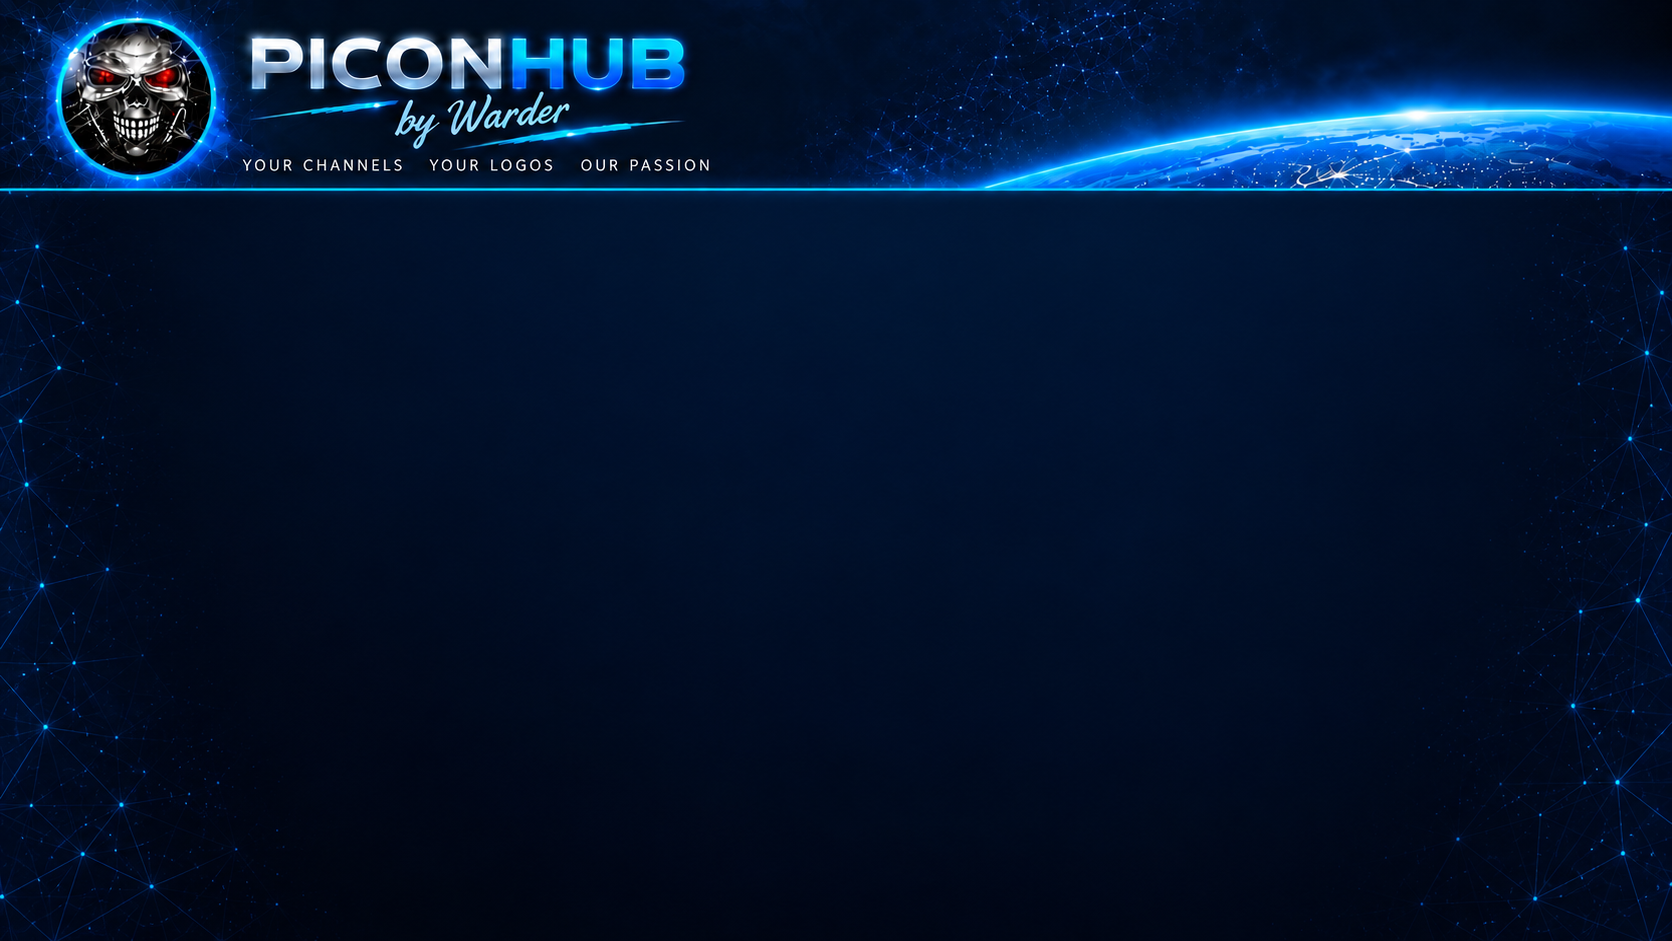
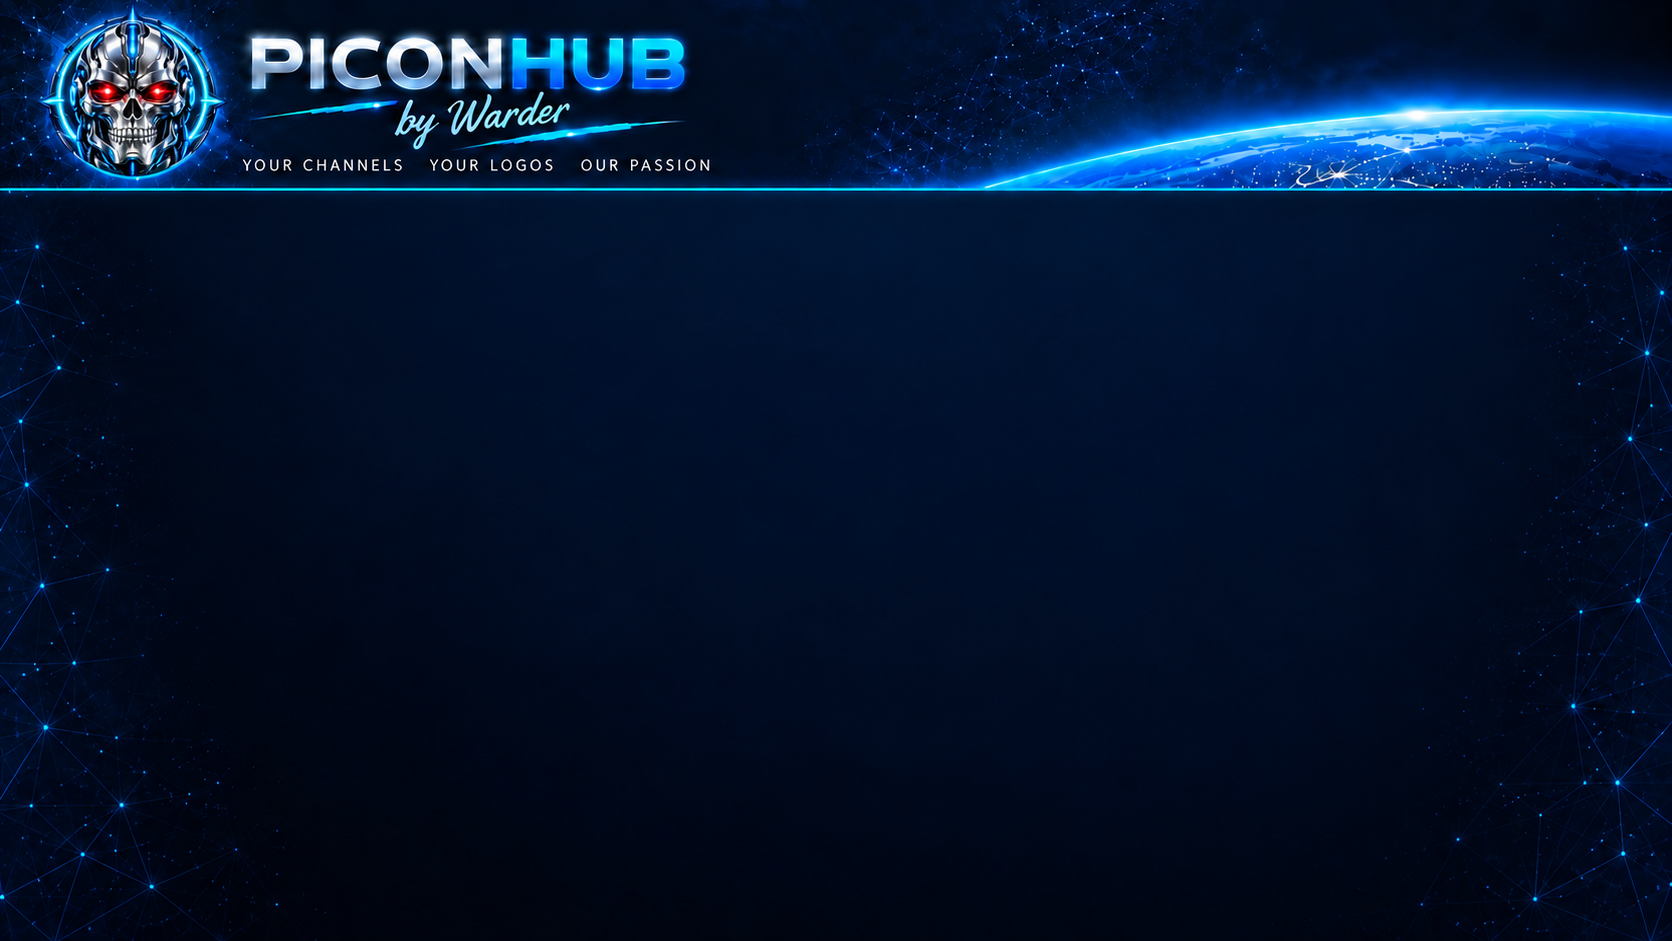
Release 0.1.10: reset choices after successful downloads and use approved chrome header skull

diff --git a/plugin/tests/test_native_ui.py b/plugin/tests/test_native_ui.py
@@ -284,6 +284,51 @@ class NativeControllerTests(unittest.TestCase):
         self.assertTrue(job.done);self.assertFalse(job.timer.running)
         job.cleanup()
 
+    def test_successful_job_returns_to_empty_first_row_and_default_preview(self):
+        self.complete_selection()
+        self.main['list'].moveToIndex(4)
+        stored=(self.main.profile.sats.value,self.main.profile.resolution.value,
+                self.main.profile.background.value,self.main.profile.method.value)
+        self.main.update_picons()
+        callback,args,kwargs=self.calls[-1]
+        self.assertEqual(callback,self.main.picon_job_finished)
+        job=self.gui.PiconJobScreen(self.session,args[1])
+        job.events.put(('result',{'added':1,'changed':0,'removed':0}));job.poll()
+        self.assertEqual(sum(bool(v) for v in self.main.selection.values()),5)
+        job.finish();self.assertIs(job.result,True)
+        callback(job.result)
+        self.assertTrue(all(v is None for v in self.main.selection.values()))
+        self.assertEqual(self.main['list'].getSelectionIndex(),0)
+        self.assertTrue(all(row[0][2]=='Vyber si…' for row in self.main['list'].values))
+        self.assertIn('0 z 5',self.main['summary'].text)
+        self.assertFalse(self.main['preview'].visible)
+        self.assertTrue(self.main['brand_logo'].visible)
+        self.assertEqual(stored,(self.main.profile.sats.value,self.main.profile.resolution.value,
+                                self.main.profile.background.value,self.main.profile.method.value))
+
+    def test_failed_job_preserves_choices_for_retry(self):
+        self.complete_selection();before=dict(self.main.selection)
+        self.main['list'].moveToIndex(3)
+        self.main.update_picons();callback,args,kwargs=self.calls[-1]
+        job=self.gui.PiconJobScreen(self.session,args[1])
+        job.events.put(('error','injected failure'));job.poll();job.finish()
+        self.assertIs(job.result,False);callback(job.result)
+        self.assertEqual(self.main.selection,before)
+        self.assertEqual(self.main['list'].getSelectionIndex(),3)
+        self.main.picon_job_finished(None)
+        self.assertEqual(self.main.selection,before)
+
+    def test_replace_confirmation_starts_job_with_the_same_reset_callback(self):
+        self.complete_selection();self.main.choose('method','all')
+        self.main.update_picons()
+        confirm,args,kwargs=self.calls[-1]
+        self.assertEqual(args[0],self.gui.MessageBox)
+        calls=len(self.calls);confirm(False);self.assertEqual(len(self.calls),calls)
+        confirm(True)
+        callback,args,kwargs=self.calls[-1]
+        self.assertIs(args[0],self.gui.PiconJobScreen)
+        self.assertEqual(callback,self.main.picon_job_finished)
+
     def test_text_dialog_uses_red_to_return(self):
         dialog=self.gui.TextDialog(self.session,"O projekte","PiconHub")
         self.assertEqual(dialog["hint_red"].text,"Naspäť")

diff --git a/plugin/src/Plugins/Extensions/WarderPiconHub/warder_gui.py b/plugin/src/Plugins/Extensions/WarderPiconHub/warder_gui.py
@@ -173,6 +173,7 @@ class PiconJobScreen(Screen):
         self.skin=dialog_skin(width,height,8,kind="progress",title="Aktualizácia piconov")
         Screen.__init__(self,session)
         self.preferences,self.done,self.started,self.closed=preferences,False,False,False
+        self.success=False
         self.events,self.cancel=queue.Queue(),threading.Event()
         self.history,self.download_row,self.follow_progress=[],None,True
         self["title"]=Label(_("Aktualizácia piconov"))
@@ -235,6 +236,7 @@ class PiconJobScreen(Screen):
                 self.done=True
                 self["progress"].hide()
                 if item[0]=="result":
+                    self.success=True
                     self.history.append(_("Dokončené.\n\nPridané: %d\nZmenené: %d\nOdstránené: %d") % (item[1]["added"],item[1]["changed"],item[1]["removed"]))
                 else:self.history.append(_("Aktualizácia sa nedokončila.\n\n")+item[1])
                 self.timer.stop();self.follow_progress=True;changed=True
@@ -251,7 +253,7 @@ class PiconJobScreen(Screen):
         self.follow_progress=self["status"].isAtLastPage()
 
     def finish(self):
-        if self.done:self.close()
+        if self.done:self.close(self.success)
         else:
             self.cancel.set()
             self.history.append(_("Čakám na bezpečné ukončenie…"))
@@ -445,9 +447,18 @@ class WarderMainScreen(Screen):
         except ValueError as exc:
             self.session.open(MessageBox,str(exc),type=MessageBox.TYPE_ERROR);return
         if any(p["update_mode"]==model.sync.UPDATE_MODE_REPLACE_ALL for p in preferences):
-            self.session.openWithCallback(lambda yes:self.session.open(PiconJobScreen,preferences) if yes else None,MessageBox,
+            self.session.openWithCallback(lambda yes:self.start_picon_job(preferences) if yes else None,MessageBox,
                                          _("Úplné nahradenie odstráni staré kanálové picony vybraných pozícií. Pokračovať?"),type=MessageBox.TYPE_YESNO,default=False)
-        else:self.session.open(PiconJobScreen,preferences)
+        else:self.start_picon_job(preferences)
+
+    def start_picon_job(self,preferences):
+        self.session.openWithCallback(self.picon_job_finished,PiconJobScreen,preferences)
+
+    def picon_job_finished(self,success):
+        if success is True:
+            self.selection={key:None for key in self.selection}
+            self["list"].moveToIndex(0)
+            self.refresh()
 
     def check_plugin_update(self):
         self.warderUpdateCheck.request(manual=True)

diff --git a/plugin/BRANDING-0.1.10.md b/plugin/BRANDING-0.1.10.md
@@ -1,0 +1,14 @@
+# Header skull replacement — 0.1.10
+
+Approved by the user in this conversation. Produced with the built-in imagegen edit tool.
+
+Production asset: `plugin/src/Plugins/Extensions/WarderPiconHub/images/warder-background.png` (1672×941 PNG).
+The preview asset `images/warder-emblem.png` remains the reference identity. The header uses only its chrome skull and cyan ring, without the lower PICONHUB/by Warder lettering. The separate large header title and signature remain.
+
+Edit inputs: the existing full background (blob 6bc7c4e2ef1549b9feb05deb4cf20ceb4d6465f5) and the existing transparent preview emblem.
+
+Prompt:
+
+> Replace only the black skull emblem at the upper left of the existing background with the chrome silver skull and cyan circular spikes from the preview emblem. Omit all lower PICONHUB and by Warder lettering from the inserted emblem; complete the chin and circular bottom rim. Fit the existing header space. Preserve the full background aspect ratio, separate PICONHUB title, by Warder signature, slogan, cyan divider, Earth and navy network background. Output the production background asset, not a UI screenshot.
+
+The resulting image was visually inspected and approved before publication. The preview logo and plugin-browser icon are unchanged.

diff --git a/plugin/update/RELEASE-NOTES.md b/plugin/update/RELEASE-NOTES.md
@@ -1,3 +1,3 @@
-# PiconHub Warder Evolution 0.1.9
+# PiconHub Warder Evolution 0.1.10
 
-Sťahovanie a spracovanie všetkých družíc sa zobrazuje ako postupne pribúdajúce riadky v jednom okne. Percentá sa menia v aktuálnom riadku, história zostáva a dá sa posúvať šípkami. Existujúce odkazy na picony sa bezpečne nahradia obrázkami bez zmeny cieľových súborov; pri chybe sa obnovia pôvodné odkazy.
+Po úspešnom stiahnutí a návrate sa všetky voľby vrátia na Vyber si…, kurzor na prvý riadok a náhľad na úvodné logo. Pri chybe zostáva výber pripravený na opakovanie. Čiernu lebku vľavo hore nahrádza chrómová lebka z náhľadu bez spodného nápisu.
